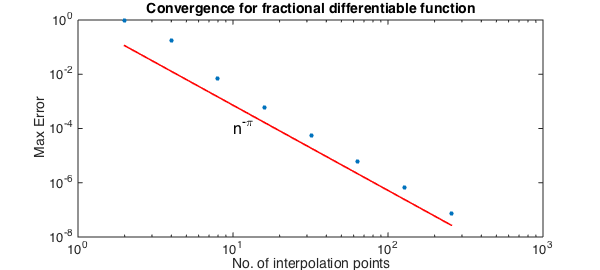
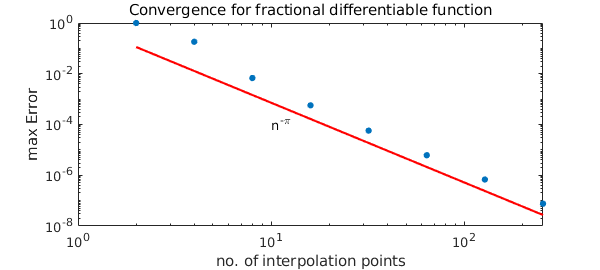
updates to Convergence.m

diff --git a/examples/cheb/img/Convergence.html b/examples/cheb/img/Convergence.html
@@ -5,6 +5,8 @@ authordate: "Alex Townsend, October 2010"
 meta: "(Chebfun example cheb/Convergence.m) [Tags: #Gibbsphenomenon, #discontinuity, #ABS, #fractional]"
 ---
 
+[revised July 2019]
+
 The smoother a function, the faster its approximants converge. Here we approximate by interpolation in Chebyshev points in the usual Chebfun fashion. In analyzing convergence, commonly one considers functions that are $k$ times differentiable for some integer $k$.  For example, Theorem 7.2 of [1] asserts that the accuracy will be $O(n^{-1})$ for interpolation of $f(x) = |x|$ on $[-1,1]$, $O(n^{-2})$ for interpolation of $f(x) = x|x|$, and so on. Here, however, we look at two examples of functions where $k$ is not an integer.
 
 
@@ -13,21 +15,21 @@ The smoother a function, the faster its approximants converge. Here we approxima
 
 First we consider the function $|x|^\pi$.
 
-<pre class="mcode-input">LW = 'LineWidth';FS = 'FontSize'; MS = 'MarkerSize';
+<pre class="mcode-input">MS = 'MarkerSize';
 x = chebfun('x');
 nn = 2*round(2.^(0:7));
 ee = 0*nn;
-f = abs(x).^pi;
+f = abs(x)^pi;
 warning off
 for j = 1:length(nn)
    fn = chebfun(f,nn(j)); ee(j) = norm(f-fn,inf);
 end
 warning on
-loglog(nn,nn.^-pi,'r',LW,1.6), hold on
-loglog(nn,ee,'.',MS,16), hold off
-xlabel('No. of interpolation points'), ylabel('Max Error')
-text(10,1e-4,'n^{-\pi}',FS,16)
-title('Convergence for fractional differentiable function',FS,14)</pre><img src="img/Convergence_01.png" class="figure" alt="">
+loglog(nn,nn.^-pi,'r'), hold on
+loglog(nn,ee,'.',MS,14), hold off
+xlabel('no. of interpolation points'), ylabel('max Error')
+text(10,1e-4,'n^{-\pi}')
+title('Convergence for fractional differentiable function')</pre><img src="img/Convergence_01.png" class="figure" alt="">
 
 The fractional differentiability of $f$ clearly explains the convergence rate.
 
@@ -37,18 +39,18 @@ The fractional differentiability of $f$ clearly explains the convergence rate.
 
 Next we replace $|x|^\pi$ by $\sin(|x|^{x+5.5})$.
 
-<pre class="mcode-input">f = sin(abs(x).^(x+5.5));
+<pre class="mcode-input">f = sin(abs(x)^(x+5.5));
 for j = 1:length(nn)
    fn = chebfun(f,nn(j)); ee(j) = norm(f-fn,inf);
 end
 loglog(nn,nn.^-5.5,'r',LW,1.6), hold on
 loglog(nn,ee,'.',MS,16),
-xlabel('No. of interpolation points'), ylabel('Max Error')
-text(10,3e-8,'n^{-5.5}',FS,14)
-title('Convergence for a trigonometric function',FS,14)
-hold off</pre><img src="img/Convergence_02.png" class="figure" alt="">
-
-Again the fractional differentiability determines the convergence rate.
+xlabel('no. of interpolation points'), ylabel('max Error')
+text(10,3e-8,'n^{-5.5}')
+title('Convergence for a trigonometric function')
+hold off</pre><pre class="mcode-output">Undefined function or variable 'LW'.
+Error in Convergence (line 52)
+loglog(nn,nn.^-5.5,'r',LW,1.6), hold on</pre>Again the fractional differentiability determines the convergence rate.
 
 
 

diff --git a/examples/cheb/Convergence.html b/examples/cheb/Convergence.html
@@ -61,41 +61,45 @@
     <div class="container">
 <div class="row main">
 <div id='content' class="col-sm-12 example" role="main">
+<p>[revised July 2019]</p>
 <p>The smoother a function, the faster its approximants converge. Here we approximate by interpolation in Chebyshev points in the usual Chebfun fashion. In analyzing convergence, commonly one considers functions that are $k$ times differentiable for some integer $k$.  For example, Theorem 7.2 of [1] asserts that the accuracy will be $O(n^{-1})$ for interpolation of $f(x) = |x|$ on $[-1,1]$, $O(n^{-2})$ for interpolation of $f(x) = x|x|$, and so on. Here, however, we look at two examples of functions where $k$ is not an integer.</p>
 <h3 id="fractional-power-example">Fractional Power Example</h3>
 <p>First we consider the function $|x|^\pi$.</p>
-<pre class="mcode-input">LW = 'LineWidth';FS = 'FontSize'; MS = 'MarkerSize';
+<pre class="mcode-input">MS = 'MarkerSize';
 x = chebfun('x');
 nn = 2*round(2.^(0:7));
 ee = 0*nn;
-f = abs(x).^pi;
+f = abs(x)^pi;
 warning off
 for j = 1:length(nn)
    fn = chebfun(f,nn(j)); ee(j) = norm(f-fn,inf);
 end
 warning on
-loglog(nn,nn.^-pi,'r',LW,1.6), hold on
-loglog(nn,ee,'.',MS,16), hold off
-xlabel('No. of interpolation points'), ylabel('Max Error')
-text(10,1e-4,'n^{-\pi}',FS,16)
-title('Convergence for fractional differentiable function',FS,14)</pre>
+loglog(nn,nn.^-pi,'r'), hold on
+loglog(nn,ee,'.',MS,14), hold off
+xlabel('no. of interpolation points'), ylabel('max Error')
+text(10,1e-4,'n^{-\pi}')
+title('Convergence for fractional differentiable function')</pre>
 
 <p><img src="img/Convergence_01.png" class="figure" alt=""></p>
 <p>The fractional differentiability of $f$ clearly explains the convergence rate.</p>
 <h3 id="trigonometric-example">Trigonometric Example</h3>
 <p>Next we replace $|x|^\pi$ by $\sin(|x|^{x+5.5})$.</p>
-<pre class="mcode-input">f = sin(abs(x).^(x+5.5));
+<pre class="mcode-input">f = sin(abs(x)^(x+5.5));
 for j = 1:length(nn)
    fn = chebfun(f,nn(j)); ee(j) = norm(f-fn,inf);
 end
 loglog(nn,nn.^-5.5,'r',LW,1.6), hold on
 loglog(nn,ee,'.',MS,16),
-xlabel('No. of interpolation points'), ylabel('Max Error')
-text(10,3e-8,'n^{-5.5}',FS,14)
-title('Convergence for a trigonometric function',FS,14)
+xlabel('no. of interpolation points'), ylabel('max Error')
+text(10,3e-8,'n^{-5.5}')
+title('Convergence for a trigonometric function')
 hold off</pre>
 
-<p><img src="img/Convergence_02.png" class="figure" alt=""></p>
+<pre class="mcode-output">Undefined function or variable 'LW'.
+Error in Convergence (line 52)
+loglog(nn,nn.^-5.5,'r',LW,1.6), hold on</pre>
+
 <p>Again the fractional differentiability determines the convergence rate.</p>
 <h3 id="references">References</h3>
 <ol>

diff --git a/examples/cheb/index.html b/examples/cheb/index.html
@@ -61,7 +61,7 @@
 <div class="row main noleftpadding"><div class="col-sm-4 noleftpadding">
     <ul class='sidenav'>
         <li><a href="/examples/applics/index.html">Applications<span>6</span></a></li>
-        <li><a href="/examples/approx/index.html">Approximation (1D)<span>39</span></a></li>
+        <li><a href="/examples/approx/index.html">Approximation (1D)<span>40</span></a></li>
         <li><a href="/examples/approx2/index.html">Approximation (2D)<span>14</span></a></li>
         <li><a href="/examples/approx3/index.html">Approximation (3D)<span>10</span></a></li>
         <li><a href="/examples/calc/index.html">Calculus<span>6</span></a></li>
@@ -72,16 +72,16 @@
         <li><a href="/examples/fun/index.html">Fun stuff<span>7</span></a></li>
         <li><a href="/examples/geom/index.html">Geometry<span>10</span></a></li>
         <li><a href="/examples/integro/index.html">Integral equations<span>4</span></a></li>
-        <li><a href="/examples/linalg/index.html">Linear algebra<span>12</span></a></li>
+        <li><a href="/examples/linalg/index.html">Linear algebra<span>13</span></a></li>
         <li><a href="/examples/ode-eig/index.html">ODE eigenvalue problems<span>15</span></a></li>
-        <li><a href="/examples/ode-linear/index.html">ODEs (linear)<span>24</span></a></li>
+        <li><a href="/examples/ode-linear/index.html">ODEs (linear)<span>25</span></a></li>
         <li><a href="/examples/ode-nonlin/index.html">ODEs (nonlinear)<span>23</span></a></li>
         <li><a href="/examples/opt/index.html">Optimization<span>11</span></a></li>
         <li><a href="/examples/pde/index.html">Partial differential equations<span>10</span></a></li>
         <li><a href="/examples/quad/index.html">Quadrature<span>8</span></a></li>
         <li><a href="/examples/ode-random/index.html">Random ODEs<span>10</span></a></li>
         <li><a href="/examples/roots/index.html">Rootfinding<span>16</span></a></li>
-        <li><a href="/examples/sphere/index.html">Sphere and ball<span>11</span></a></li>
+        <li><a href="/examples/sphere/index.html">Sphere and ball<span>12</span></a></li>
         <li><a href="/examples/stats/index.html">Statistics and probability<span>15</span></a></li>
         <li><a href="/examples/veccalc/index.html">Vector calculus<span>2</span></a></li>
     </ul>

diff --git a/index.html b/index.html
@@ -273,5 +273,5 @@ plot(minx(1),minx(2),'.w')
     <script type="text/javascript" src="/js/config.js"></script>
     <script type="text/javascript" src="/js/jquery.flexslider-min.js"></script>
   </body>
-<!-- Compiled on Monday, 08 July 2019 at 14:10. -->
+<!-- Compiled on Monday, 08 July 2019 at 14:31. -->
 </html>

diff --git a/examples/cheb/Convergence.m b/examples/cheb/Convergence.m
@@ -6,6 +6,9 @@
 % [Tags: #Gibbsphenomenon, #discontinuity, #ABS, #fractional]
 
 %%
+% [revised July 2019]
+
+%%
 % The smoother a function, the faster its approximants converge.
 % Here we approximate by interpolation in Chebyshev
 % points in the usual Chebfun fashion.
@@ -20,21 +23,21 @@
 
 %% Fractional Power Example
 % First we consider the function $|x|^\pi$.
-LW = 'LineWidth';FS = 'FontSize'; MS = 'MarkerSize';
+MS = 'MarkerSize';
 x = chebfun('x');
 nn = 2*round(2.^(0:7));
 ee = 0*nn; 
-f = abs(x).^pi; 
+f = abs(x)^pi; 
 warning off
 for j = 1:length(nn)
    fn = chebfun(f,nn(j)); ee(j) = norm(f-fn,inf);
 end
 warning on
-loglog(nn,nn.^-pi,'r',LW,1.6), hold on
-loglog(nn,ee,'.',MS,16), hold off
-xlabel('No. of interpolation points'), ylabel('Max Error')
-text(10,1e-4,'n^{-\pi}',FS,16)
-title('Convergence for fractional differentiable function',FS,14)
+loglog(nn,nn.^-pi,'r'), hold on
+loglog(nn,ee,'.',MS,14), hold off
+xlabel('no. of interpolation points'), ylabel('max Error')
+text(10,1e-4,'n^{-\pi}')
+title('Convergence for fractional differentiable function')
 
 %%
 % The fractional differentiability of $f$ clearly explains
@@ -42,15 +45,15 @@ title('Convergence for fractional differentiable function',FS,14)
 
 %% Trigonometric Example
 % Next we replace $|x|^\pi$ by $\sin(|x|^{x+5.5})$.
-f = sin(abs(x).^(x+5.5));
+f = sin(abs(x)^(x+5.5));
 for j = 1:length(nn)
    fn = chebfun(f,nn(j)); ee(j) = norm(f-fn,inf);
 end
 loglog(nn,nn.^-5.5,'r',LW,1.6), hold on
 loglog(nn,ee,'.',MS,16), 
-xlabel('No. of interpolation points'), ylabel('Max Error')
-text(10,3e-8,'n^{-5.5}',FS,14)
-title('Convergence for a trigonometric function',FS,14)
+xlabel('no. of interpolation points'), ylabel('max Error')
+text(10,3e-8,'n^{-5.5}')
+title('Convergence for a trigonometric function')
 hold off
 
 %%
